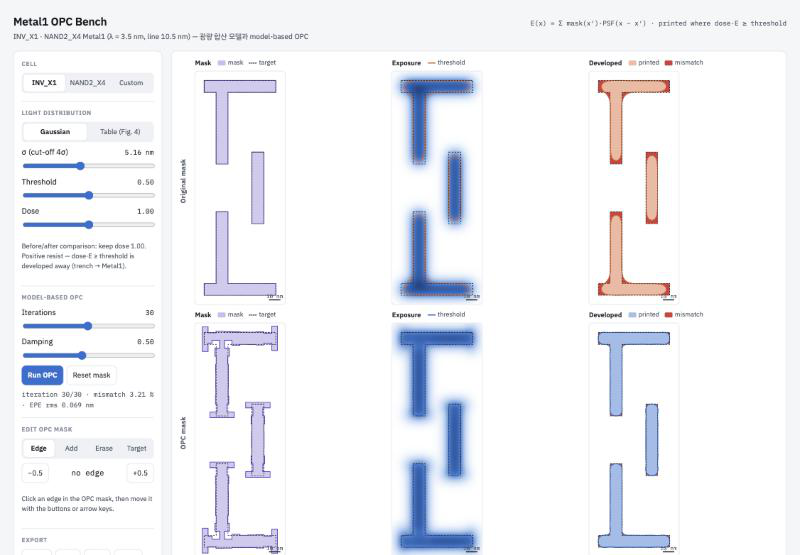
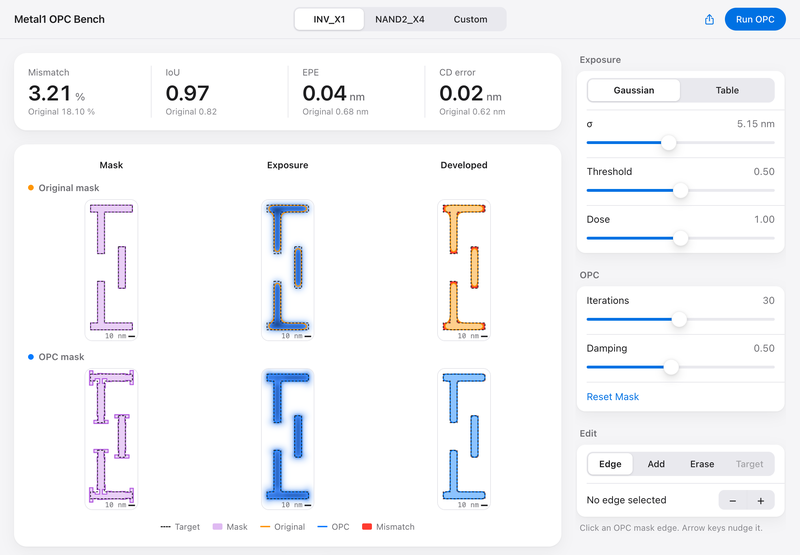
Show sigma and IoU at 2 decimals in the app; refresh Fig 3
- app: sigma defaults to 0.21*lambda/NA (5.15 nm on the slider), metrics,
  status line and PNG export use 2 decimals
- Fig3_app_screen.png: new screenshot with the 2-decimal display
- APPENDIX A9: the app gives 18.10 % vs Python 18.12 % (nearly equal)

diff --git a/app/index.html b/app/index.html
@@ -261,7 +261,7 @@ td.worse { color: var(--bad); }
           <button type="button" data-v="gaussian" aria-pressed="true">Gaussian</button>
           <button type="button" data-v="table" aria-pressed="false">Table</button></div></div>
         <div class="item" id="sigmaRow"><div class="top"><label for="sigma">σ</label><output id="sigmaOut"></output></div>
-          <input id="sigma" type="range" min="3" max="8" step="0.05" value="5.155"></div>
+          <input id="sigma" type="range" min="3" max="8" step="0.05" value="5.15"></div>
         <div class="item"><div class="top"><label for="thr">Threshold</label><output id="thrOut"></output></div>
           <input id="thr" type="range" min="0.3" max="0.7" step="0.01" value="0.5"></div>
         <div class="item"><div class="top"><label for="dose">Dose</label><output id="doseOut"></output></div>
@@ -320,7 +320,7 @@ const FRAG = { corner: 3.5, seg: 7, minSeg: 1.75, lineEndMax: 14, maxIn: 3.5, ma
 const NORMAL = 0, CONVEX = 1, CONCAVE = 2, LINE_END = 3;
 
 // ============================================================================ state
-const S = { cell: "INV_X1", psf: "gaussian", sigma: 5.155, thr: 0.5, dose: 1, iters: 30, damp: 0.5,
+const S = { cell: "INV_X1", psf: "gaussian", sigma: 0.21 * 13.5 / 0.55, thr: 0.5, dose: 1, iters: 30, damp: 0.5,
   bits: null, nx: 0, ny: 0, geo: null, grid: null, offsets: null, extras: [], history: [], sel: -1, tool: "select",
   orig: null, opc: null, busy: false };
 
@@ -657,7 +657,7 @@ async function runOpc() {
 function showProgress(k) {
   const bar = C("bar"), last = S.history[S.history.length - 1];
   if (k >= 0) { C("status").textContent = `Iteration ${k} of ${S.iters}`; bar.style.opacity = 1; bar.style.width = 100 * k / S.iters + "%"; return; }
-  C("status").textContent = last ? `${last.it} iterations · EPE rms ${last.rms.toFixed(3)} nm` : "";
+  C("status").textContent = last ? `${last.it} iterations · EPE rms ${last.rms.toFixed(2)} nm` : "";
   bar.style.opacity = 0; setTimeout(() => { if (!S.busy) bar.style.width = 0; }, 500);
 }
 
@@ -768,11 +768,11 @@ function renderRow(r) {
   else { drawMask(C("c10"), maskPolygons(S.ctx.geo, S.offsets), S.extras, true); drawExposure(C("c11"), S.opc, css("--after")); drawDeveloped(C("c12"), S.opc, css("--after")); }
 }
 
-const METRICS = [["mismatch_pct", "Mismatch", "%", 2], ["iou", "IoU", "", 4, true], ["epe_mean", "EPE mean", "nm", 3],
-  ["epe_max", "EPE max", "nm", 3], ["cd_err_mean", "CD error mean", "nm", 3], ["cd_err_max", "CD error max", "nm", 3],
-  ["line_end_mean", "Line-end shortening", "nm", 3], ["corner", "Corner error", "nm", 2],
+const METRICS = [["mismatch_pct", "Mismatch", "%", 2], ["iou", "IoU", "", 2, true], ["epe_mean", "EPE mean", "nm", 2],
+  ["epe_max", "EPE max", "nm", 2], ["cd_err_mean", "CD error mean", "nm", 2], ["cd_err_max", "CD error max", "nm", 2],
+  ["line_end_mean", "Line-end shortening", "nm", 2], ["corner", "Corner error", "nm", 2],
   ["bridges", "Bridges", "", 0], ["opens", "Opens", "", 0], ["missing", "Missing shapes", "", 0], ["spurious", "Extra shapes", "", 0]];
-const TILES = [["mismatch_pct", "Mismatch", "%", 2], ["iou", "IoU", "", 3], ["epe_mean", "EPE", "nm", 2], ["cd_err_max", "CD error", "nm", 2]];
+const TILES = [["mismatch_pct", "Mismatch", "%", 2], ["iou", "IoU", "", 2], ["epe_mean", "EPE", "nm", 2], ["cd_err_max", "CD error", "nm", 2]];
 function fmt(v, d) { return Number.isFinite(v) ? v.toFixed(d) : "—"; }
 function renderMetrics() {
   const tb = document.querySelector("#mtable tbody"); tb.textContent = "";
@@ -781,7 +781,7 @@ function renderMetrics() {
     let change = "—", cls = "";
     if (Number.isFinite(a) && Number.isFinite(b)) {
       if (d === 0) { change = b === a ? "—" : (b - a > 0 ? "+" : "") + (b - a); cls = b === a ? "" : (b < a ? "better" : "worse"); }
-      else if (Math.abs(a) > 1e-12) { const r = 100 * (b - a) / Math.abs(a); change = (r > 0 ? "+" : "") + r.toFixed(1) + " %";
+      else if (Math.abs(a) > 1e-12) { const r = 100 * (b - a) / Math.abs(a); change = (r > 0 ? "+" : "") + r.toFixed(2) + " %";
         cls = Math.abs(r) < 0.05 ? "" : ((higher ? r > 0 : r < 0) ? "better" : "worse"); }
     }
     for (const [txt, c] of [[label + (unit ? ` (${unit})` : ""), ""], [fmt(a, d), ""], [fmt(b, d), ""], [change, cls]]) {
@@ -929,7 +929,7 @@ function pngBlob() {
   const g = out.getContext("2d"); g.fillStyle = css("--panel"); g.fillRect(0, 0, out.width, out.height);
   g.fillStyle = css("--ink"); g.font = `600 22px ${css("--font-ui")}`; g.fillText(`Metal1 OPC Bench — ${S.cell}`, pad, 34);
   g.font = `14px ${css("--font-mono")}`; g.fillStyle = css("--ink-2");
-  g.fillText(`psf ${S.psf}${S.psf === "gaussian" ? " σ " + S.sigma.toFixed(3) + " nm" : ""} · threshold ${S.thr} · dose ${S.dose} · mismatch ${S.orig.metrics.mismatch_pct.toFixed(2)} → ${S.opc.metrics.mismatch_pct.toFixed(2)} % · IoU ${S.orig.metrics.iou.toFixed(3)} → ${S.opc.metrics.iou.toFixed(3)}`, pad, 54);
+  g.fillText(`psf ${S.psf}${S.psf === "gaussian" ? " σ " + S.sigma.toFixed(2) + " nm" : ""} · threshold ${S.thr} · dose ${S.dose} · mismatch ${S.orig.metrics.mismatch_pct.toFixed(2)} → ${S.opc.metrics.mismatch_pct.toFixed(2)} % · IoU ${S.orig.metrics.iou.toFixed(2)} → ${S.opc.metrics.iou.toFixed(2)}`, pad, 54);
   ids.forEach((c, k) => { const r = Math.floor(k / 3), q = k % 3; g.drawImage(c, pad + 40 + q * (colW + pad), top + pad + r * (rowH + pad)); });
   g.save(); g.font = `600 15px ${css("--font-ui")}`; g.fillStyle = css("--ink-2");
   ["original mask", "OPC mask"].forEach((t, r) => { g.save(); g.translate(pad + 14, top + pad + r * (rowH + pad) + rowH / 2); g.rotate(-Math.PI / 2); g.textAlign = "center"; g.fillText(t, 0, 0); g.restore(); });
